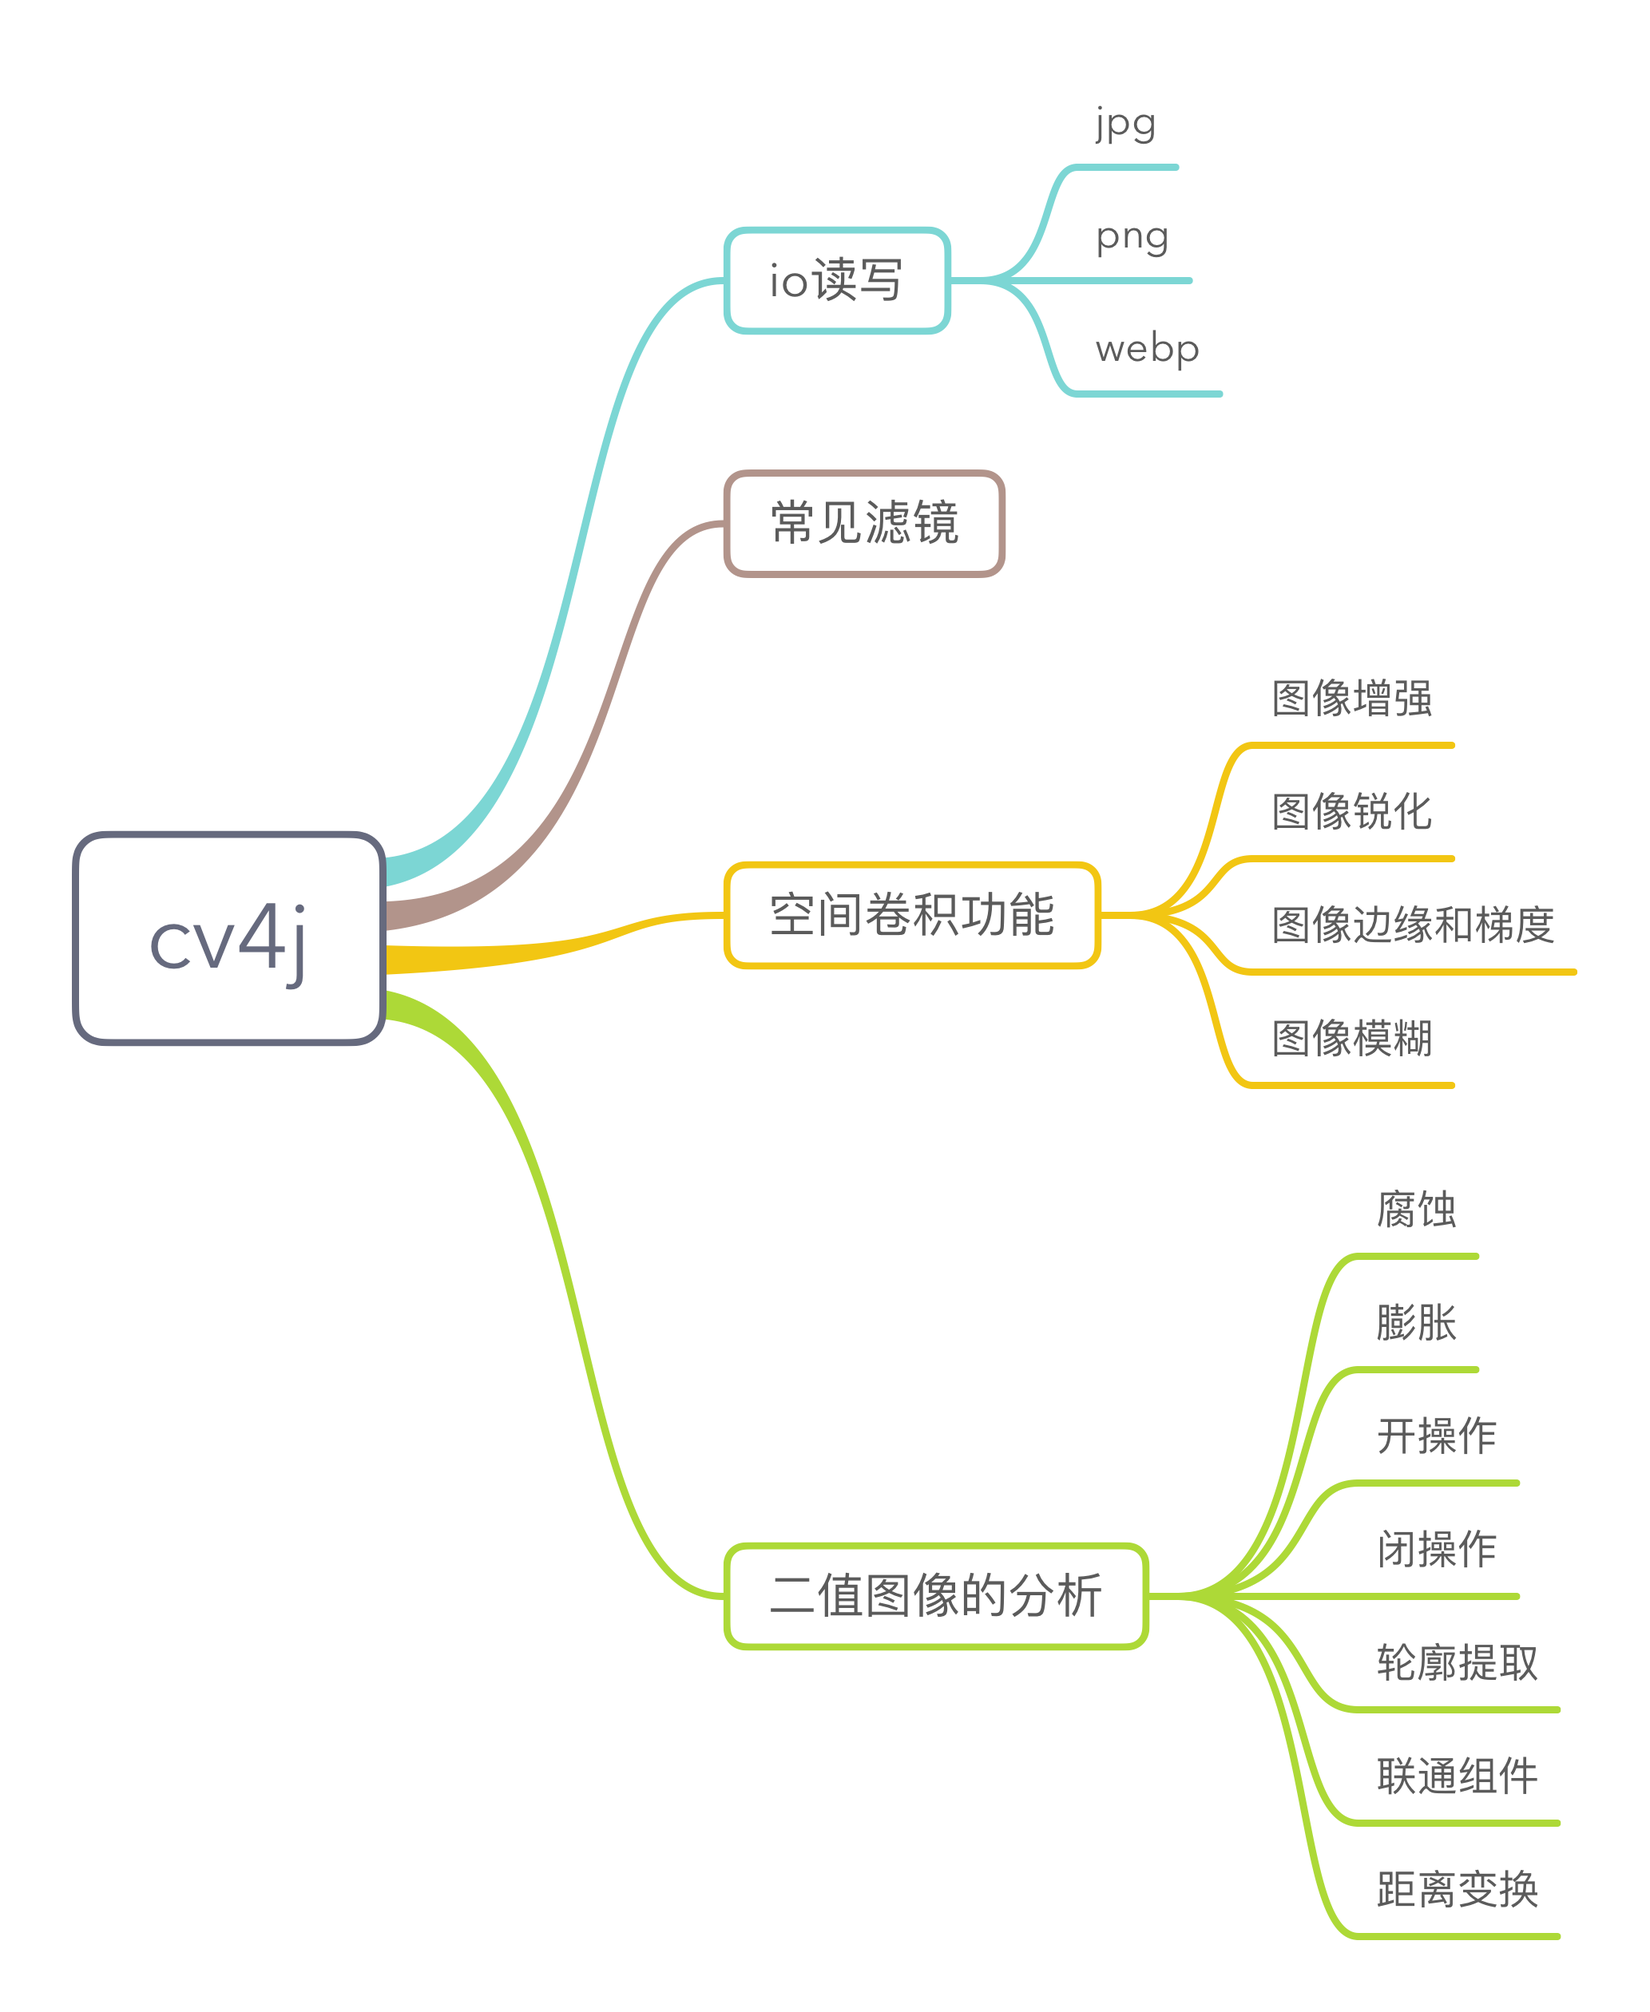
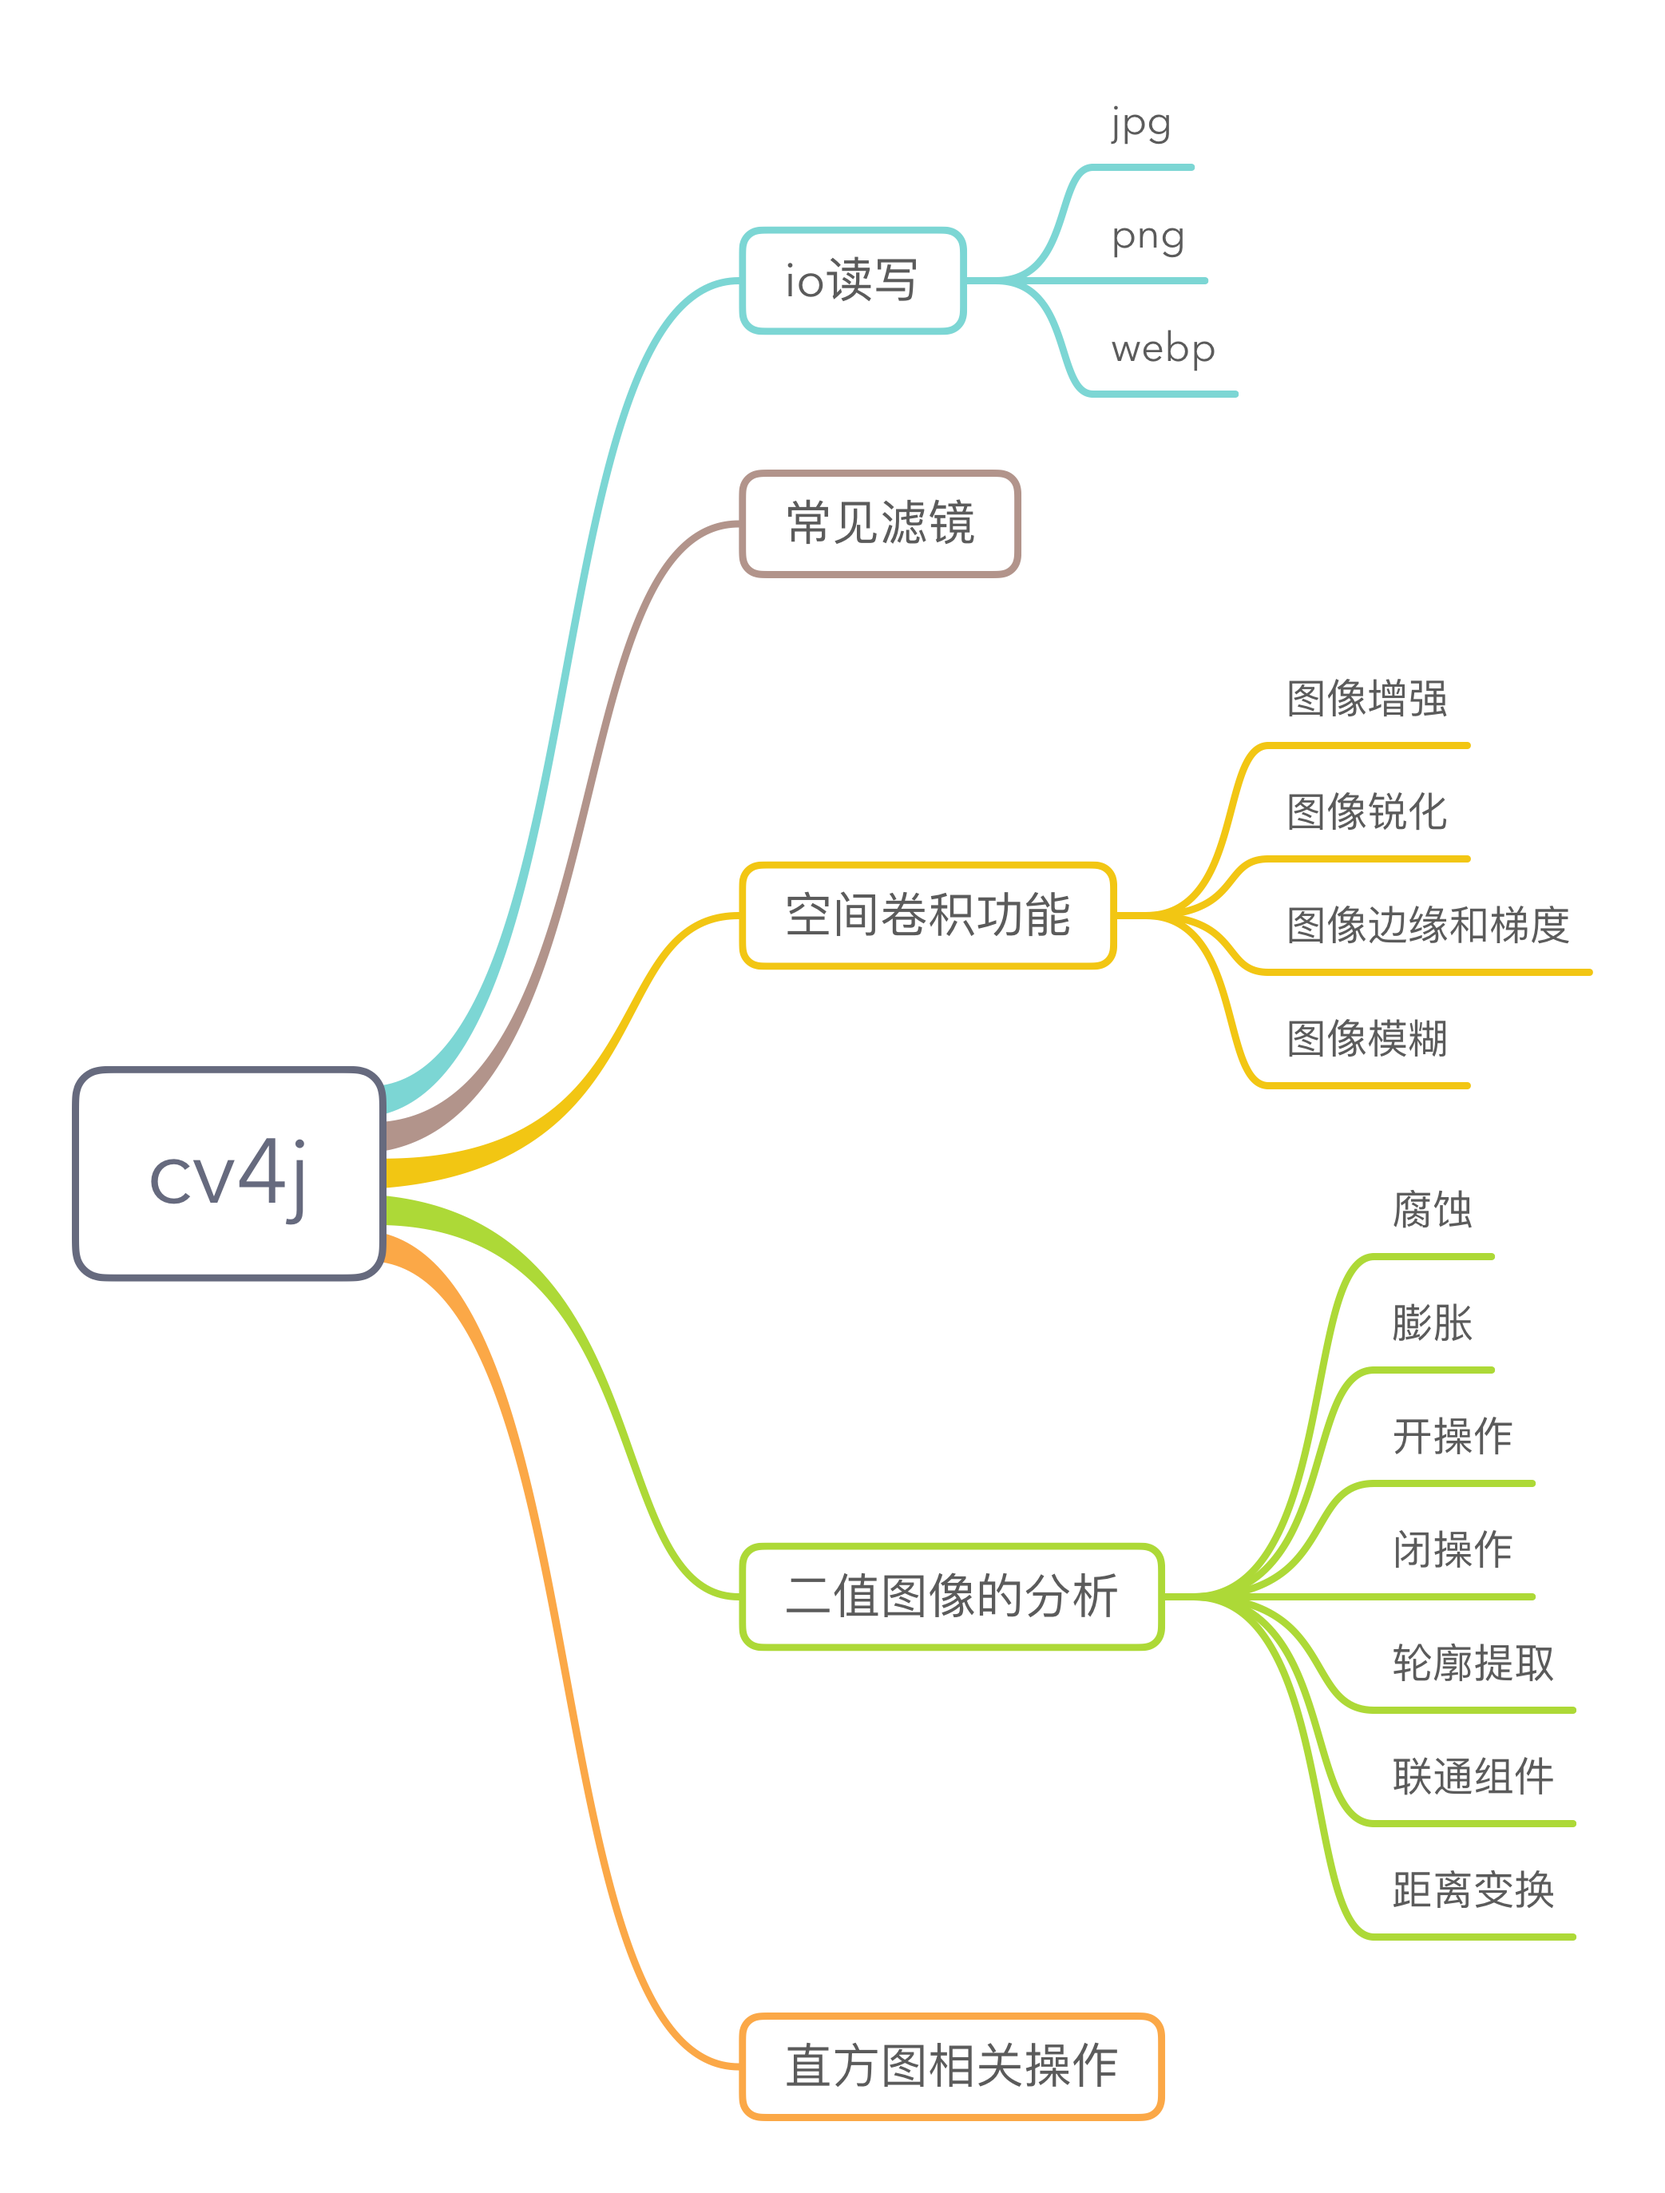
update cv4j.png

diff --git a/app/src/main/java/com/cv4j/app/activity/CompareHistActivity.java b/app/src/main/java/com/cv4j/app/activity/CompareHistActivity.java
@@ -64,7 +64,7 @@ public class CompareHistActivity extends BaseActivity {
         CalcHistogram calcHistogram = new CalcHistogram();
         int bins = 180;
         source = new int[imageProcessor.getChannels()][bins];
-        calcHistogram.calcRGBHist(imageProcessor,bins,source,true);
+        calcHistogram.calcHSVHist(imageProcessor,bins,source,true);
 
         if (imageProcessor instanceof ByteProcessor) {
             EqualHist equalHist = new EqualHist();
@@ -72,7 +72,7 @@ public class CompareHistActivity extends BaseActivity {
             image1.setImageBitmap(cv4jImage.getProcessor().getImage().toBitmap());
 
             target = new int[imageProcessor.getChannels()][bins];
-            calcHistogram.calcRGBHist(imageProcessor,bins,target,true);
+            calcHistogram.calcHSVHist(imageProcessor,bins,target,true);
         }
 
         CompareHist compareHist = new CompareHist();

diff --git a/cv4j/src/main/java/com/cv4j/core/hist/CalcHistogram.java b/cv4j/src/main/java/com/cv4j/core/hist/CalcHistogram.java
@@ -48,7 +48,7 @@ public class CalcHistogram {
             calcRGBHist(src,bins,hist,norm);
             return;
         }
-        
+
         int numChannels = src.getChannels();
         int width = src.getWidth();
         int height = src.getHeight();
